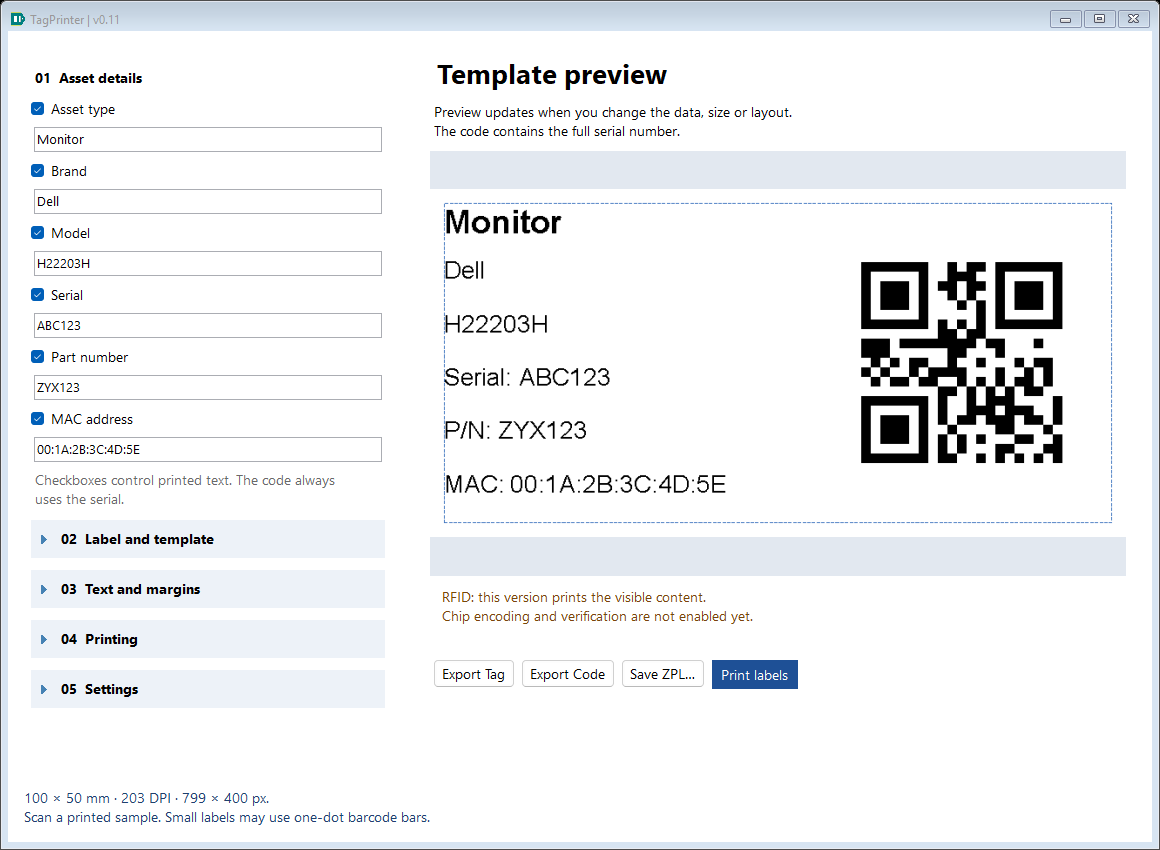
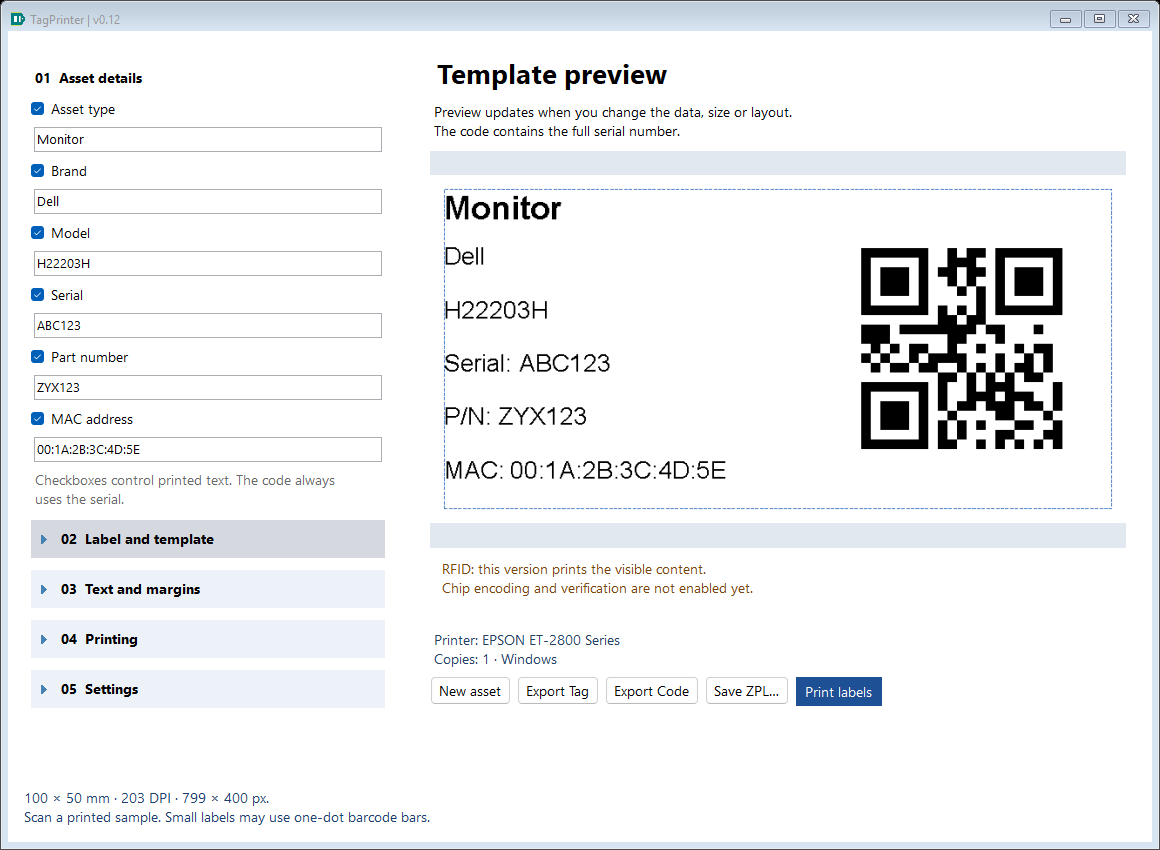
Add new asset action, visible print summary and project link

diff --git a/src/TagPrinter/MainForm.cs b/src/TagPrinter/MainForm.cs
@@ -4,6 +4,9 @@ namespace TagPrinter;
 
 public class MainForm : Form
 {
+    internal const string ProjectUrl="https://github.com/dafermen/TagPrinter";
+    readonly Label printSummary=new(){Dock=DockStyle.Fill,AutoEllipsis=true,Padding=new Padding(0,5,0,0),ForeColor=Color.FromArgb(35,65,100)};
+    internal string PrintSummaryText=>printSummary.Text;
     readonly TextBox assetType=new(){Text="Monitor"};
     readonly CheckBox showAssetType=new(){Checked=true,AutoSize=true};
     readonly TextBox brand=new(){Text="Dell"}, model=new(){Text="22\" - H22203H"}, serial=new(){Text="ABC123456"};
@@ -34,7 +37,7 @@ public class MainForm : Form
         config=configPath ?? Path.Combine(Environment.GetFolderPath(Environment.SpecialFolder.LocalApplicationData),"InventoryLabels","settings.json");
         appConfig=configuration ?? AppConfig.Load(Path.Combine(AppContext.BaseDirectory,"config.json"));
         Ui.Language=appConfig.Defaults.Language;
-        Text="TagPrinter | v0.11";
+        Text="TagPrinter | v0.12";
         using var iconStream=typeof(MainForm).Assembly.GetManifestResourceStream("TagPrinter.TagPrinter.ico");
         if(iconStream is not null)Icon=new Icon(iconStream); Width=1160; Height=850; MinimumSize=new Size(980,720);
         Font=new Font("Segoe UI",10); BackColor=Color.White; StartPosition=FormStartPosition.CenterScreen;
@@ -97,15 +100,23 @@ public class MainForm : Form
         settingsSection=new CollapsibleSection(Ui.T("05  Configuración","05  Settings"));
         fields.Controls.Add(settingsSection);target=settingsSection.Body;
         Field(Ui.T("Idioma","Language"),language);
+        var projectLink=new LinkLabel{Text="github.com/dafermen/TagPrinter",AutoSize=true,AccessibleName=Ui.T("Proyecto en GitHub","Project on GitHub")};
+        projectLink.LinkClicked+=(_,_)=>Guard(()=>System.Diagnostics.Process.Start(new System.Diagnostics.ProcessStartInfo(ProjectUrl){UseShellExecute=true}));
+        Field(Ui.T("Proyecto","Project"),projectLink);
         var right=new TableLayoutPanel{Dock=DockStyle.Fill,ColumnCount=1,RowCount=5,Padding=new Padding(16,0,0,0)};
-        right.RowStyles.Add(new RowStyle(SizeType.Absolute,48));right.RowStyles.Add(new RowStyle(SizeType.Absolute,46));right.RowStyles.Add(new RowStyle(SizeType.Percent,100));right.RowStyles.Add(new RowStyle(SizeType.Absolute,74));right.RowStyles.Add(new RowStyle(SizeType.Absolute,100));
+        right.RowStyles.Add(new RowStyle(SizeType.Absolute,48));right.RowStyles.Add(new RowStyle(SizeType.Absolute,46));right.RowStyles.Add(new RowStyle(SizeType.Percent,100));right.RowStyles.Add(new RowStyle(SizeType.Absolute,74));right.RowStyles.Add(new RowStyle(SizeType.Absolute,128));
         right.Controls.Add(new Label{Text=Ui.T("Vista de la plantilla","Template preview"),Font=new Font("Segoe UI",20,FontStyle.Bold),AutoSize=true});
         right.Controls.Add(new Label{Text=Ui.T("La vista previa se actualiza al cambiar datos, tamaño o distribución.\nEl código contiene el serial completo.","Preview updates when you change the data, size or layout.\nThe code contains the full serial number."),AutoSize=true});var previewHost=new Panel{Dock=DockStyle.Fill};previewHost.Controls.Add(preview);previewHost.Controls.Add(previewError);right.Controls.Add(previewHost);
         right.Controls.Add(new Label{Text=Ui.T("RFID: esta versión imprime el contenido visible.\nLa grabación y verificación del chip todavía no están habilitadas.","RFID: this version prints the visible content.\nChip encoding and verification are not enabled yet."),Dock=DockStyle.Fill,Padding=new Padding(8),ForeColor=Color.FromArgb(120,70,10)});
-        var buttons=new FlowLayoutPanel{Dock=DockStyle.Fill}; var export=new Button{Text=Ui.T("Exportar etiqueta","Export Tag"),AutoSize=true};var zpl=new Button{Text=Ui.T("Guardar ZPL…","Save ZPL…"),AutoSize=true};
+        var actionArea=new TableLayoutPanel{Dock=DockStyle.Fill,ColumnCount=1,RowCount=2,Margin=Padding.Empty};
+        actionArea.RowStyles.Add(new RowStyle(SizeType.Absolute,48));actionArea.RowStyles.Add(new RowStyle(SizeType.Percent,100));
+        actionArea.Controls.Add(printSummary,0,0);
+        var buttons=new FlowLayoutPanel{Dock=DockStyle.Fill,Margin=Padding.Empty};
+        var newAsset=new Button{Text=Ui.T("Nuevo activo","New asset"),AutoSize=true};
+        newAsset.Click+=(_,_)=>StartNewAsset();buttons.Controls.Add(newAsset); var export=new Button{Text=Ui.T("Exportar etiqueta","Export Tag"),AutoSize=true};var zpl=new Button{Text=Ui.T("Guardar ZPL…","Save ZPL…"),AutoSize=true};
         var codeExport=new Button{Text=Ui.T("Exportar código","Export Code"),AutoSize=true};
         codeExport.Click+=(_,_)=>Guard(ExportCode);
-        export.Click+=(_,_)=>Guard(()=>Export(false));zpl.Click+=(_,_)=>Guard(()=>Export(true));print.Click+=(_,_)=>Guard(Print);buttons.Controls.AddRange([export,codeExport,zpl,print]);right.Controls.Add(buttons);
+        export.Click+=(_,_)=>Guard(()=>Export(false));zpl.Click+=(_,_)=>Guard(()=>Export(true));print.Click+=(_,_)=>Guard(Print);buttons.Controls.AddRange([export,codeExport,zpl,print]);actionArea.Controls.Add(buttons,0,1);right.Controls.Add(actionArea);
         root.Controls.Add(fields,0,0);root.Controls.Add(right,1,0);Controls.Add(root);Controls.Add(status);
         sizes.SelectedIndex=appConfig.LabelSizes.FindIndex(p=>p.Id==appConfig.Defaults.LabelPresetId);
         layout.SelectedIndex=appConfig.Defaults.Layout;code.SelectedIndex=appConfig.Defaults.Qr?1:0;mode.SelectedIndex=0;dpi.SelectedIndex=appConfig.Defaults.Dpi==300?1:0;
@@ -119,9 +130,20 @@ public class MainForm : Form
         language.SelectedIndexChanged+=(_,_)=>{if(translating)return;translating=true;bool active=ready;ready=false;try{Ui.Language=language.SelectedIndex==1?"es":"en";Ui.Translate(this);}finally{ready=active;translating=false;}UpdatePreview();if(ready)SaveConfig();};
         autoFont.CheckedChanged+=(_,_)=>UpdatePreview();showGuides.CheckedChanged+=(_,_)=>UpdatePreview();
         foreach(var number in new[]{margin,offsetX,offsetY})number.ValueChanged+=(_,_)=>UpdatePreview();
-        copies.ValueChanged+=(_,_)=>ScheduleSave();printers.SelectedIndexChanged+=(_,_)=>ScheduleSave();
+        copies.ValueChanged+=(_,_)=>{UpdatePrintSummary();ScheduleSave();};printers.SelectedIndexChanged+=(_,_)=>{UpdatePrintSummary();ScheduleSave();};
         autosave.Tick+=(_,_)=>{autosave.Stop();SaveConfig();};
         FormClosing+=(_,_)=>SaveConfig();Ui.Translate(this);ready=true;ApplySize();
+    }
+    internal void StartNewAsset()
+    {
+        bool active=ready;ready=false;
+        foreach(var input in new[]{assetType,brand,model,serial,partNumber,macAddress})input.Clear();
+        ready=active;UpdatePreview();SaveConfig();assetType.Focus();
+    }
+    void UpdatePrintSummary()
+    {
+        string printerName=printers.SelectedIndex>=0?printers.Text:Ui.T("Sin seleccionar","Not selected");
+        printSummary.Text=string.Format(Ui.T("Impresora: {0}\nCopias: {1} · {2}","Printer: {0}\nCopies: {1} · {2}"),printerName,copies.Value,mode.SelectedIndex==1?"ZPL":"Windows");
     }
     void Guard(Action action) {try {action();}catch(Exception ex){MessageBox.Show(this,ex.Message,Ui.T("Etiquetas","TagPrinter"),MessageBoxButtons.OK,MessageBoxIcon.Warning);}}
     LabelData Data()=>new(brand.Text.Trim(),model.Text.Trim(),serial.Text.Trim(),width.Value,height.Value,int.Parse(dpi.Text),layout.SelectedIndex,code.SelectedIndex==1,autoFont.Checked,fontPercent,margin.Value,offsetX.Value,offsetY.Value,showBrand.Checked,showModel.Checked,showSerialText.Checked,partNumber.Text.Trim(),macAddress.Text.Trim(),showPartNumber.Checked,showMacAddress.Checked,assetType.Text.Trim(),showAssetType.Checked);
@@ -143,7 +165,7 @@ public class MainForm : Form
     void UpdatePreview()
     {
         if(!ready)return;
-        ScheduleSave();
+        ScheduleSave();UpdatePrintSummary();
         try
         {
             var next=LabelRenderer.Render(Data(),showGuides.Checked,out effectiveFontPercent);var old=preview.Image;preview.Image=next;old?.Dispose();
@@ -151,7 +173,7 @@ public class MainForm : Form
             previewError.Visible=false;
             status.Text=$"{width.Value} × {height.Value} mm · {dpi.Text} DPI · {next.Width} × {next.Height} px.\n"+Ui.T("Escanea una prueba impresa. En etiquetas pequeñas las barras pueden medir un solo punto.","Scan a printed sample. Small labels may use one-dot barcode bars.");print.Enabled=true;
         }
-        catch(Exception ex) {fontValue.Text=autoFont.Checked?"Auto":$"{fontPercent} %";var old=preview.Image;preview.Image=null;old?.Dispose();status.Text=ex.Message;previewError.Text=ex.Message;previewError.Visible=true;previewError.BringToFront();print.Enabled=false;}
+        catch(Exception ex) {previewError.ForeColor=string.IsNullOrWhiteSpace(serial.Text)?Color.DimGray:Color.Firebrick;fontValue.Text=autoFont.Checked?"Auto":$"{fontPercent} %";var old=preview.Image;preview.Image=null;old?.Dispose();status.Text=ex.Message;previewError.Text=ex.Message;previewError.Visible=true;previewError.BringToFront();print.Enabled=false;}
     }
     void LoadPrinters()
     {

diff --git a/src/TagPrinter/SelfTest.cs b/src/TagPrinter/SelfTest.cs
@@ -48,6 +48,14 @@ public static class SelfTest
             form.Restore(work with {Brand="Monitor",Model="Dell 22\" - H22203H",Serial="ABC12345644",Size=1,Width=50,Height=25,Code=0,Dpi=0,AutoFont=true,MarginMm=2,OffsetXmm=0,OffsetYmm=0});
             Application.DoEvents();
             using(var screenshot=new Bitmap(form.Width,form.Height)){form.DrawToBitmap(screenshot,new Rectangle(Point.Empty,form.Size));screenshot.Save(Path.Combine(folder,"application-es-small.png"));}
+            form.Restore(work with {Serial="ABC12345644",Copies=7,Mode=1});
+            if(!form.PrintSummaryText.Contains("7") || !form.PrintSummaryText.Contains("ZPL"))throw new Exception("Print summary is stale");
+            var full=form.CaptureWork();form.StartNewAsset();
+            var cleared=form.CaptureWork();
+            if(cleared!=full with {AssetType="",Brand="",Model="",Serial="",PartNumber="",MacAddress=""})throw new Exception("New asset changed preferences or retained old data");
+            if(WorkStore.Load(freshPath)!=cleared)throw new Exception("New asset was not saved immediately");
+            if(!form.PrintSummaryText.Contains("7") || !form.PrintSummaryText.Contains("ZPL"))throw new Exception("New asset changed printing summary");
+            if(new Uri(MainForm.ProjectUrl).AbsoluteUri!="https://github.com/dafermen/TagPrinter")throw new Exception("Incorrect project link");
             form.Restore(work with {Serial="ABC12345644"});
             form.SaveConfig();form.Close();
         }
@@ -57,7 +65,7 @@ public static class SelfTest
             var restored=reopened.CaptureWork();
             if(restored.Serial!="ABC12345644" || restored.Language!="es" || restored.Layout!=3 || restored.Copies!=4 || restored.AutoFont || restored.FontPercent!=70 || restored.MarginMm!=3 || restored.OffsetXmm!=.5m || restored.OffsetYmm!=-.5m || restored.ShowBrand || !restored.ShowModel || restored.ShowSerialText || restored.PartNumber!="PN-DEMO-001" || restored.MacAddress!="00:11:22:33:44:55" || restored.ShowPartNumber || restored.ShowMacAddress || restored.AssetType!="Laptop" || restored.ShowAssetType)throw new Exception("UI restore failed");
         }
-        File.WriteAllText(Path.Combine(folder,"results.txt"),$"PASS: {count} etiquetas generadas y decodificadas (2 tamaños × 2 resoluciones × 4 plantillas × 2 tipos). Serial vacío rechazado. Persistencia de trabajo/idioma, reapertura y nombres de archivo comprobados. Fuente manual/automática, márgenes, guías y desplazamientos comprobados. ZPL con dimensiones y cantidad comprobados. Exportación independiente QR/Code 128 y nombres de archivo comprobados. Visibilidad de campos: 32 combinaciones decodificadas y preferencias restauradas. Campos P/N y MAC, configuración JSON y migración Title/Brand comprobados. Tipo de activo, seis campos, visibilidad y persistencia comprobados. No se envió ningún trabajo a impresoras.");
+        File.WriteAllText(Path.Combine(folder,"results.txt"),$"PASS: {count} etiquetas generadas y decodificadas (2 tamaños × 2 resoluciones × 4 plantillas × 2 tipos). Serial vacío rechazado. Persistencia de trabajo/idioma, reapertura y nombres de archivo comprobados. Fuente manual/automática, márgenes, guías y desplazamientos comprobados. ZPL con dimensiones y cantidad comprobados. Exportación independiente QR/Code 128 y nombres de archivo comprobados. Visibilidad de campos: 32 combinaciones decodificadas y preferencias restauradas. Campos P/N y MAC, configuración JSON y migración Title/Brand comprobados. Tipo de activo, seis campos, visibilidad y persistencia comprobados. Nuevo activo y resumen de impresión comprobados. No se envió ningún trabajo a impresoras.");
     }
     static void TestTypographyAndMargins(string folder)
     {

diff --git a/src/TagPrinter/Ui.cs b/src/TagPrinter/Ui.cs
@@ -12,6 +12,8 @@ public static class Ui
         ("Desplazamiento de impresión…","Print offsets…"),
         ("04  Impresión","04  Printing"),
         ("Idioma","Language"),
+        ("Nuevo activo","New asset"),
+        ("Proyecto","Project"),
         ("05  Configuración","05  Settings"),
         ("No. de parte","Part number"),
         ("Dirección MAC","MAC address"),

diff --git a/README.md b/README.md
@@ -50,7 +50,7 @@ powershell -ExecutionPolicy Bypass -File scripts/Test.ps1
 powershell -ExecutionPolicy Bypass -File scripts/Publish.ps1
 ```
 
-The publish script verifies the self-contained EXE and creates `artifacts/TagPrinter-v0.11-PORTABLE-Windows-x64.zip`. Generated output is not tracked in Git.
+The publish script verifies the self-contained EXE and creates `artifacts/TagPrinter-v0.12-PORTABLE-Windows-x64.zip`. Generated output is not tracked in Git.
 
 ## Documentation
 
@@ -76,3 +76,11 @@ ZXing.Net 0.16.11 — Michael Jahn and contributors — [Apache-2.0](https://www
 Tipo de activo / Asset type aparece antes de Marca y tiene checkbox y autoguardado. Ejemplo: Monitor / Dell / H22203H / ABC123 / ZYX123 / 00:1A:2B:3C:4D:5E. El código representa ABC123. En trabajos existentes el nuevo campo empieza vacío para no inventar el tipo; completa su valor cuando corresponda.
 
 El selector de idioma está en **05 Configuración / Settings**, contraída por defecto junto con 02, 03 y 04. Abre su encabezado para cambiarlo. La zona principal comienza con los datos del activo.
+
+## v0.12: trabajo diario
+
+**New asset / Nuevo activo** vacía los seis datos del activo y guarda el trabajo vacío, conservando impresora, copias, plantilla, idioma, tamaños, fuente, márgenes y checkboxes. No mantiene una copia del activo anterior ni un historial; exporta su etiqueta antes si necesitas conservarla.
+
+El resumen junto a los botones muestra siempre impresora, copias y método Windows/ZPL, aunque 04 esté contraída. Se actualiza al cambiar opciones o idioma.
+
+En **05 Configuración / Settings**, el enlace `github.com/dafermen/TagPrinter` abre el repositorio en el navegador predeterminado solo al pulsarlo.

diff --git a/docs/STATUS.md b/docs/STATUS.md
@@ -1,6 +1,6 @@
 # Estado
 
-Versión 0.11.0. Proyecto: C:\Projects\TagPrinter. Repositorio: https://github.com/dafermen/TagPrinter.
+Versión 0.12.0. Proyecto: C:\Projects\TagPrinter. Repositorio: https://github.com/dafermen/TagPrinter.
 
 Completado: seis campos con visibilidad individual, Brand en lugar de Title, migración de trabajos anteriores, configuración JSON de tamaños/defaults, imágenes y documentación bilingüe, impresión/exportación y portable autocontenido.
 
@@ -11,3 +11,11 @@ Pendiente: validar hardware real y definir/implementar grabación/verificación 
 Tipo de activo / Asset type aparece antes de Marca y tiene checkbox y autoguardado. Ejemplo: Monitor / Dell / H22203H / ABC123 / ZYX123 / 00:1A:2B:3C:4D:5E. El código representa ABC123. En trabajos existentes el nuevo campo empieza vacío para no inventar el tipo; completa su valor cuando corresponda.
 
 El selector de idioma está en **05 Configuración / Settings**, contraída por defecto junto con 02, 03 y 04. Abre su encabezado para cambiarlo. La zona principal comienza con los datos del activo.
+
+## v0.12: trabajo diario
+
+**New asset / Nuevo activo** vacía los seis datos del activo y guarda el trabajo vacío, conservando impresora, copias, plantilla, idioma, tamaños, fuente, márgenes y checkboxes. No mantiene una copia del activo anterior ni un historial; exporta su etiqueta antes si necesitas conservarla.
+
+El resumen junto a los botones muestra siempre impresora, copias y método Windows/ZPL, aunque 04 esté contraída. Se actualiza al cambiar opciones o idioma.
+
+En **05 Configuración / Settings**, el enlace `github.com/dafermen/TagPrinter` abre el repositorio en el navegador predeterminado solo al pulsarlo.

diff --git a/docs/USER_GUIDE.md b/docs/USER_GUIDE.md
@@ -1,4 +1,4 @@
-# Guía de uso — TagPrinter 0.11
+# Guía de uso — TagPrinter 0.12
 
 ## Abrir
 
@@ -48,3 +48,11 @@ Los antiguos Title / ShowTitle migran a Brand / ShowBrand sin borrar valores. Re
 Tipo de activo / Asset type aparece antes de Marca y tiene checkbox y autoguardado. Ejemplo: Monitor / Dell / H22203H / ABC123 / ZYX123 / 00:1A:2B:3C:4D:5E. El código representa ABC123. En trabajos existentes el nuevo campo empieza vacío para no inventar el tipo; completa su valor cuando corresponda.
 
 El selector de idioma está en **05 Configuración / Settings**, contraída por defecto junto con 02, 03 y 04. Abre su encabezado para cambiarlo. La zona principal comienza con los datos del activo.
+
+## v0.12: trabajo diario
+
+**New asset / Nuevo activo** vacía los seis datos del activo y guarda el trabajo vacío, conservando impresora, copias, plantilla, idioma, tamaños, fuente, márgenes y checkboxes. No mantiene una copia del activo anterior ni un historial; exporta su etiqueta antes si necesitas conservarla.
+
+El resumen junto a los botones muestra siempre impresora, copias y método Windows/ZPL, aunque 04 esté contraída. Se actualiza al cambiar opciones o idioma.
+
+En **05 Configuración / Settings**, el enlace `github.com/dafermen/TagPrinter` abre el repositorio en el navegador predeterminado solo al pulsarlo.

diff --git a/docs/VALIDATION.md b/docs/VALIDATION.md
@@ -43,3 +43,7 @@ Ocho combinaciones de Tipo visible/oculto, 203/300 DPI y QR/Code 128; los seis c
 ## v0.11
 
 La sección 05 está incluida en las comprobaciones de inicio/reapertura contraídos, expansión/contracción y conservación del trabajo. Se conserva la prueba de recuperación del idioma y las capturas en inglés y español.
+
+## v0.12
+
+Comprobación de que Nuevo activo limpia solo los seis valores y los guarda, conserva el resto del WorkState y mantiene copias/método en el resumen. Verificación de URL fija sin abrir el navegador en las pruebas. Se mantienen las pruebas de render/exportación/persistencia.

diff --git a/docs/CHANGELOG.md b/docs/CHANGELOG.md
@@ -1,5 +1,9 @@
 # Cambios
 
+## 0.12.0
+
+Nuevo activo limpia datos y conserva preferencias; guardado inmediato. Resumen visible de impresora, copias y método junto a Imprimir. Enlace al proyecto GitHub en 05 Configuración. Capturas y documentación actualizadas.
+
 ## 0.11.0
 
 Nueva sección 05 Configuración / Settings, contraída en cada apertura. Idioma trasladado desde la cabecera a esa sección, conservando cambio instantáneo y persistencia. Capturas y guía actualizadas para destacar los datos a imprimir.
